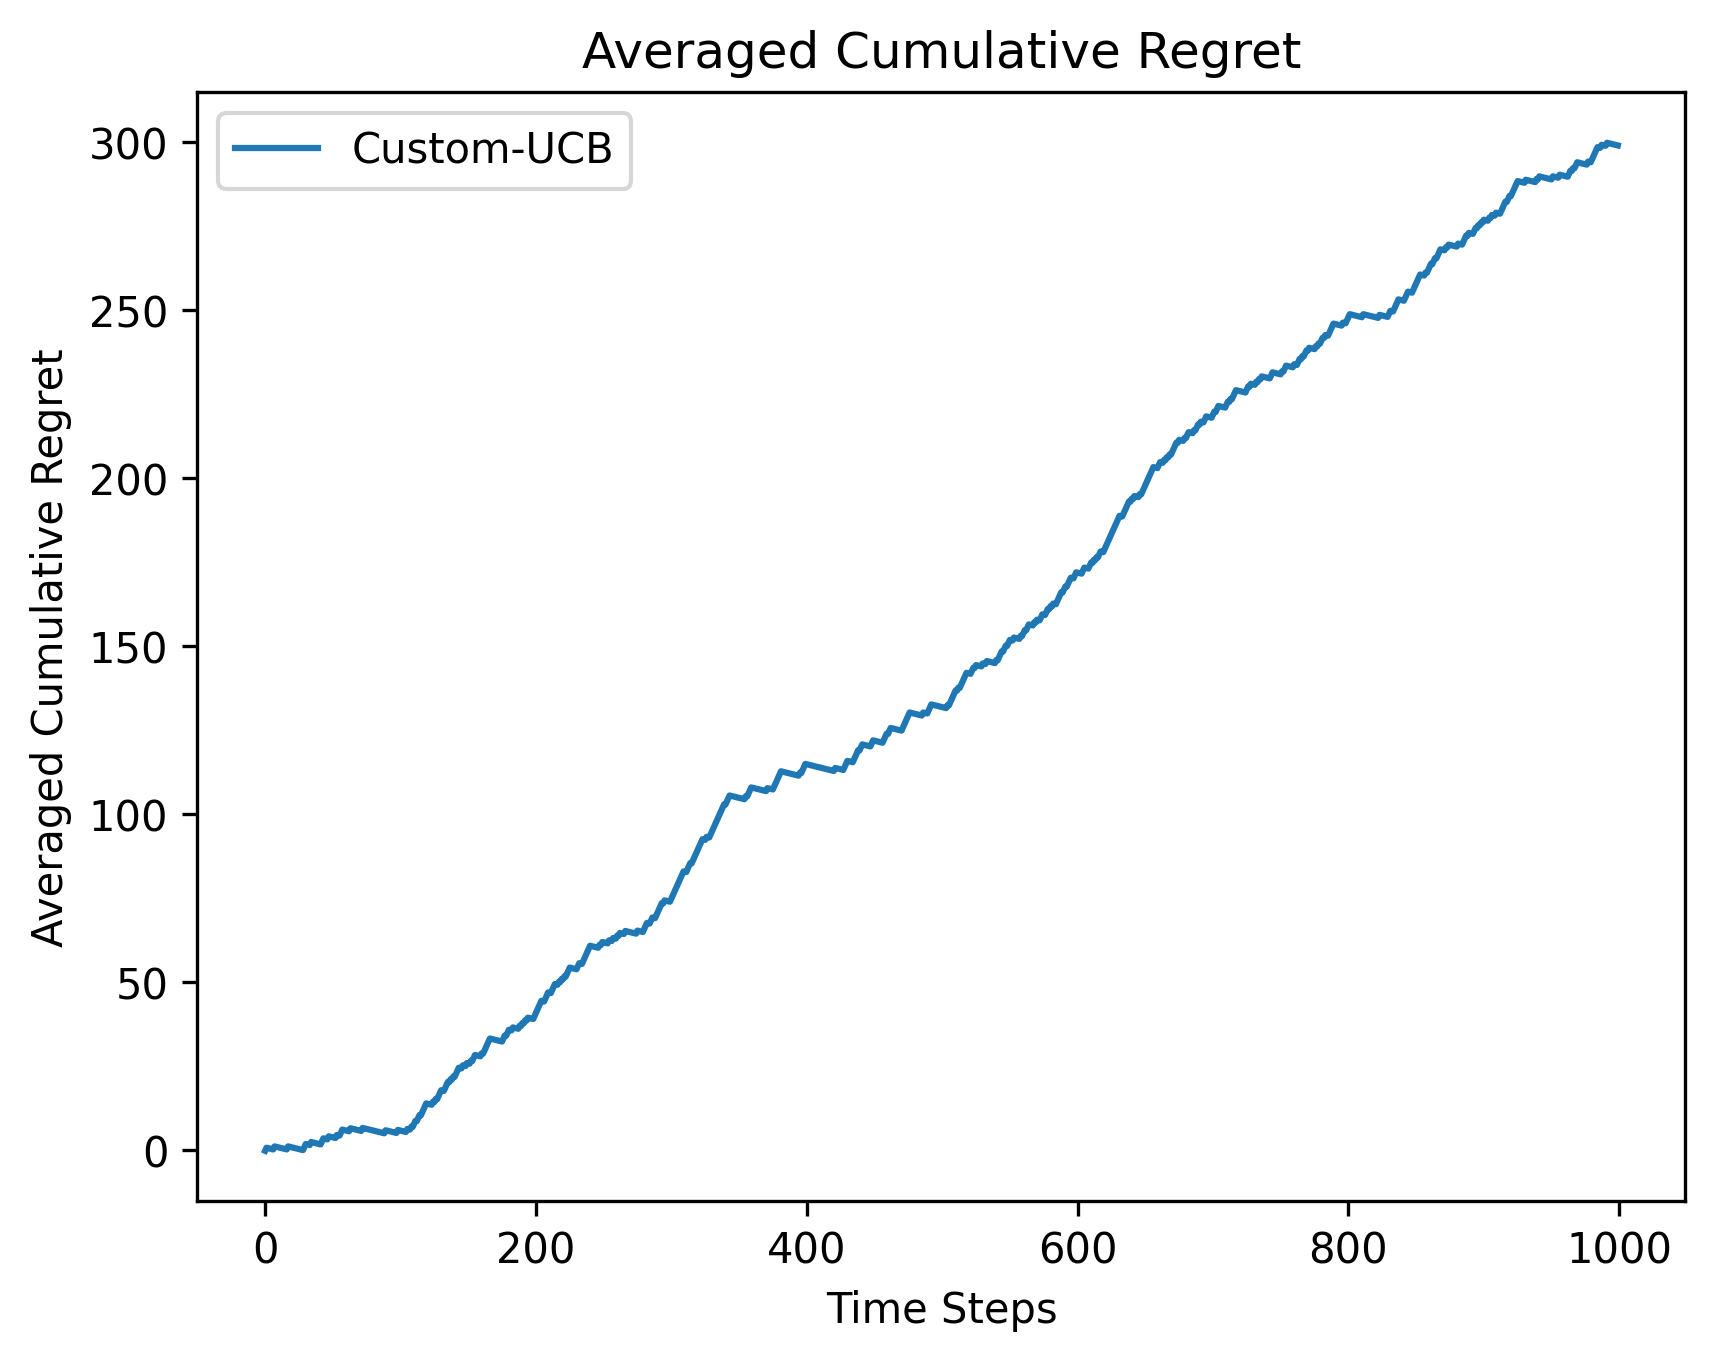
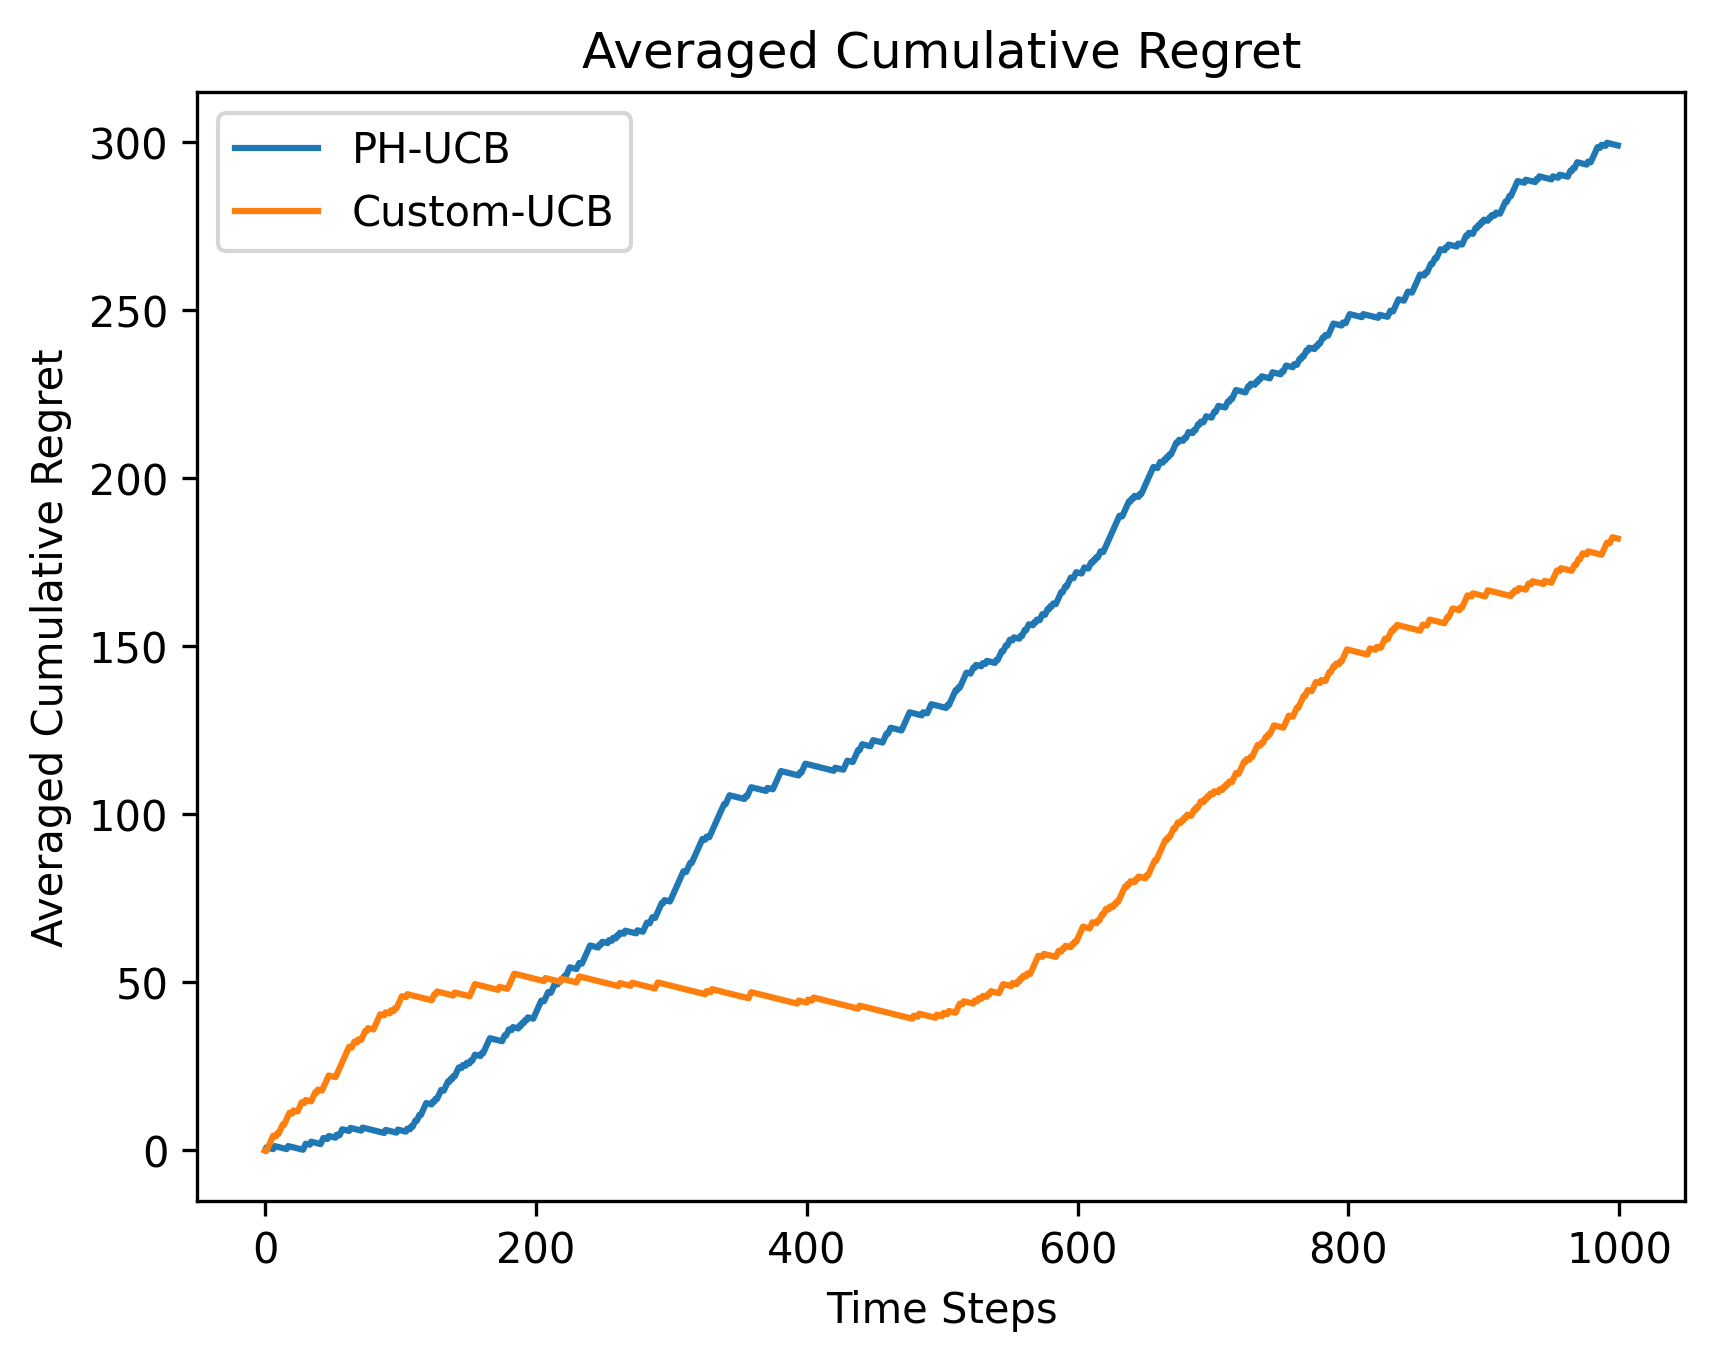
arm level cpd

diff --git a/src/cmab/algorithms/ucb/ph_ucb.py b/src/cmab/algorithms/ucb/ph_ucb.py
@@ -1,0 +1,80 @@
+# A  basic Page Hinkley UCB algorithm
+from cmab.algorithms.ucb.ucb_base import UCBAgent
+import numpy as np
+from cmab.typing import InterventionSet, Observation
+from cmab.algorithms.cpd.ph_cpd import PageHinkleyCPD
+
+class PageHinkleyUCBAgent(UCBAgent):
+    def __init__(
+        self,
+        reward_node: str,
+        arms: list[InterventionSet],
+        c: float = 2,
+        delta: float = 0.5,
+        lambda_: float = 5.0,
+        min_samples_for_detection: int = 10,
+    ):
+        super().__init__(reward_node, arms, c)
+        self.n_arms = len(arms)
+        self.estimates = np.zeros(self.n_arms, dtype=float)
+        self.arm_samples = np.zeros(self.n_arms, dtype=int)
+        self.t = 0
+
+        self.delta = delta
+        self.lambda_ = lambda_
+        self.min_samples_for_detection = min_samples_for_detection
+
+        # Avoid O(K) list.index lookups
+        self._arm_to_index = {arm: i for i, arm in enumerate(self.arms)}
+
+        self.cpds = self._initialize_cpds()
+
+    def _initialize_cpds(self) -> dict[int, PageHinkleyCPD]:
+        cpds: dict[int, PageHinkleyCPD] = {}
+        for i in range(self.n_arms):
+            cpds[i] = PageHinkleyCPD(
+                node=self.reward_node,   # <-- critical change
+                parents=[],
+                delta=self.delta,
+                lambda_=self.lambda_,
+                min_samples_for_detection=self.min_samples_for_detection,
+            )
+        return cpds
+
+    def select_arm(self) -> InterventionSet:
+        # Ensure each arm tried once
+        for i in range(self.n_arms):
+            if self.arm_samples[i] == 0:
+                return self.arms[i]
+
+        t_for_ucb = max(1, self.t)  # avoid log(0)
+        ucb_values = np.empty(self.n_arms, dtype=float)
+        for i in range(self.n_arms):
+            n_i = self.arm_samples[i]
+            bound = np.sqrt(np.log(t_for_ucb) / n_i)
+            ucb_values[i] = self.estimates[i] + self.c * bound
+
+        return self.arms[int(np.argmax(ucb_values))]
+
+    def _update(self, arm: InterventionSet, observation: Observation) -> None:
+        reward = float(observation[self.reward_node])
+        self.t += 1
+
+        arm_index = self._arm_to_index[arm]
+        self.arm_samples[arm_index] += 1
+        n = self.arm_samples[arm_index]
+
+        # Incremental mean
+        self.estimates[arm_index] += (reward - self.estimates[arm_index]) / n
+
+        # Only reward stream for *this* arm goes into *this* CPD instance
+        if self.cpds[arm_index].update(observation):
+            print(f"Change point detected for arm {arm_index}!")
+            self.reset()
+
+    def reset(self) -> None:
+        self.t = 0
+        self.estimates[:] = 0.0
+        self.arm_samples[:] = 0
+        for cpd in self.cpds.values():
+            cpd.reset()

diff --git a/experiments/nonstationary/simple.py b/experiments/nonstationary/simple.py
@@ -9,6 +9,7 @@ from cmab.environments import CausalBanditEnv, NSCausalBanditEnv
 from cmab.algorithms.ucb import UCBAgent, SlidingWindowUCBAgent
 from cmab.algorithms.ucb.pomis_ucb import PomisUCBAgent
 from cmab.algorithms.ucb.custom import MyFirstAtomicAgent
+from cmab.algorithms.ucb.ph_ucb import PageHinkleyUCBAgent
 from cmab.utils.plotting import  plot_regrets
 from cmab.metrics.cumulative_regret import CumulativeRegret
 import numpy as np
@@ -64,8 +65,10 @@ def main():
     G = env.scm.get_causal_diagram()
 
     agents = {
-        #"UCB": UCBAgent(reward_node=reward_node, arms=env.action_space, c=2),
-        "Custom-UCB": MyFirstAtomicAgent(reward_node=reward_node, G=G, arms=env.action_space, c=2)
+        # Arm level CPD
+        'PH-UCB': PageHinkleyUCBAgent(reward_node=reward_node, arms=env.action_space, c=2, delta=0.5, lambda_=5.0, min_samples_for_detection=10),
+        # Node level CPD
+        'Custom-UCB': MyFirstAtomicAgent(reward_node=reward_node, G=G, arms=env.action_space, c=2)
     }
 
     T= 1000  # number of steps in each run
